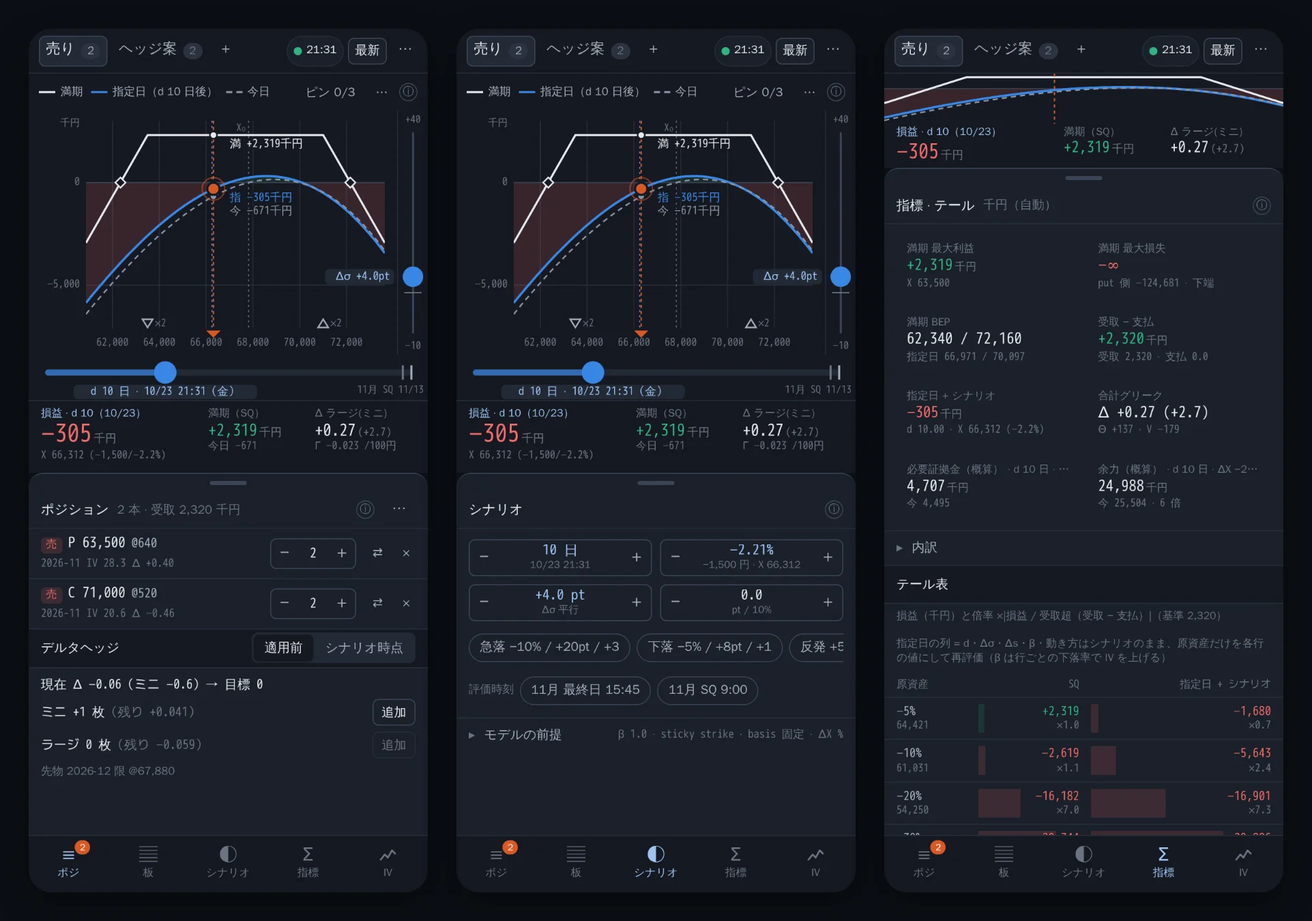
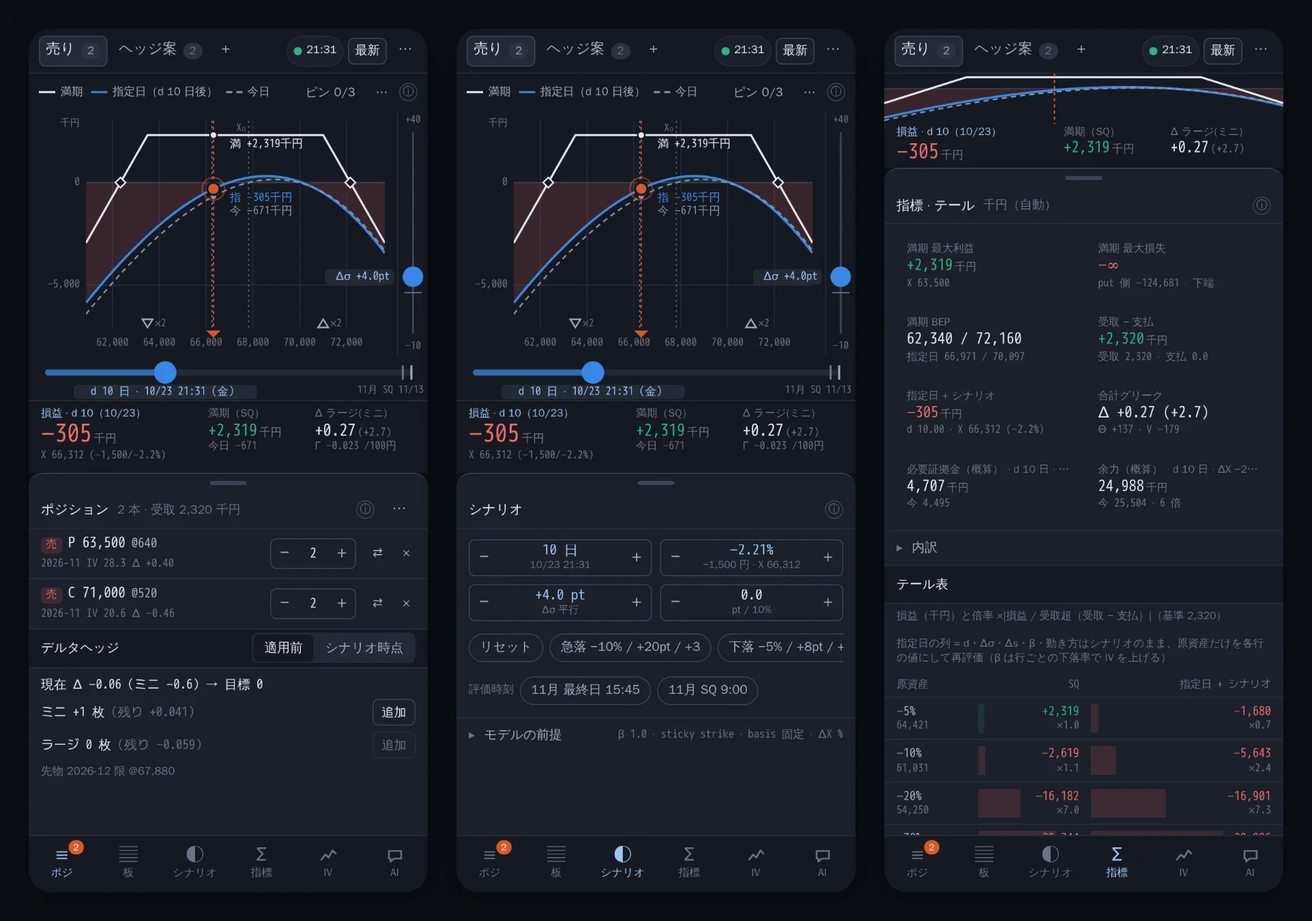
docs: README を刷新する（十字線・テクニカルの段と EMA・AI の提案とテクニカル・設定の画像と、検討の流れの順の機能ツアー） (#216)
- readmeShots に stage-cross・ai-propose・ai-tech・settings-tech を足し、面と先物推移と phone-light の場面を変えて全画像を撮り直す（合成の板と dev の偽の応答だけ）
- 機能ツアーを 損益グラフ → シナリオ → 指標 → 証拠金 → 板とスマイル → 推移とテクニカル → AI → パレット → スマホ の順に
- README から板の取得元の名前と、user-guide と食い違う古いメモの折りたたみを外す
- dev の偽のテクニカルの返答を日本語の足の名前と分布（中央値・上下 10%）に

diff --git a/README.md b/README.md
@@ -10,88 +10,122 @@
 </p>
 
 <p align="center">
-  <sub>画面はすべて合成の板（Black-76 から作った架空の値）で撮影。実在の相場の値ではありません。</sub>
+  <sub>画面はすべて合成の板（Black-76 から作った架空の値）と、手元の開発サーバーの架空の応答で撮影。実在の相場の値ではありません。</sub>
 </p>
 
 ---
 
-グラフのハンドルをつかんで日数・原資産・IV を動かすと、損益・グリーク・証拠金・テールが一緒に動きます。PC では 1 画面に収まり、スマホではドックとシートで切り替えます。
+板から足を選んでポジションを組み、満期・指定日・今日の損益を 1 枚のグラフで読みます。グラフのハンドルをつかんで日数・原資産・IV を動かすと、損益・グリーク・証拠金・テールが一緒に動きます。PC では 1 画面に収まり、スマホではドックとシートで切り替えます。
 
-- **損益グラフ** — 満期（解析解）・指定日 + シナリオ・今日の 3 本。長押しでつかんで読む、十字線で任意の原資産の損益と水準を読む、ピンで別の案と重ねる、日数 × 原資産の **面** にも切り替え
-- **シナリオ** — 経過日数・原資産 ΔX（−90〜+100%）・IV 平行移動 Δσ・スキュー Δs・β（下落で IV が上がる）。急落 / 下落 / 反発のプリセット、IV レールと時間レール
+- **損益グラフ** — 満期（解析解）・指定日 + シナリオ・今日の 3 本。十字線で任意の原資産の損益を読む、長押しでシナリオ点をつかむ、ピンで別の案と重ねる、日数 × 原資産の **面** にも切り替え
+- **シナリオ** — 経過日数・原資産 ΔX（−90〜+100%）・IV 平行移動 Δσ・スキュー Δs・β（下落で IV が上がる）。急落 / 下落 / 反発のプリセット
 - **指標 · テール** — 最大損益・BEP・合計グリーク（Δ はラージ / ミニ換算）、−5〜−40% のテール表
 - **証拠金の概算** — 必要証拠金・余力、損益グラフに **追証の線**、過去の 2 営業日の動きと重ねる **追証マップ**
-- **市場** — 板（bid で売り・ask で買い）、スマイル（bid / ask / mid の IV と補間・外挿）、ATM IV の推移（ローソク足・十字線）
-- **コマンドパレットと用語集** — `Ctrl + K` で何でも、先頭に `?` を付けて引くと用語の説明カード
-- **AI に相談** — [このポジションを診断] で弱点を数字つきで説明し、続けて質問できる。数字はこのシミュレーター自身の計算から取り、AI が使ったシナリオは [シナリオに適用] の 1 タップで損益グラフに入る
-- **どこでも** — PC の 3 列から、スマホのドックとシートまで。ダーク / ライト
-- **計算はすべてブラウザ** — サーバーは板の JSON を返すのと、AI への中継だけ
+- **板とスマイル** — 板の bid で売り・ask で買いの足が入る。スマイル（bid / ask / mid の IV と補間・外挿）の点からも
+- **IV 推移と先物推移** — ATM IV と日経225 先物のローソク足（1 分〜日足）。先物には EMA の 3 本と RSI・MACD・ストキャスティクスの段
+- **AI に相談** — [このポジションを診断]、続けての質問、ヘッジや組み方の **提案のカード**、先物の **テクニカルの読み**。数字はこのシミュレーター自身の計算から取る
+- **コマンドパレット・用語集・設定** — `Ctrl + K` で何でも、`?` で用語の説明カード。テクニカル指標の期間と線の太さも設定で
+- **計算はすべてブラウザ** — サーバーは板などの JSON を返すのと、AI への中継だけ
 
 ## 機能ツアー
 
-### 損益グラフ
+上から順に、建てる前の検討の流れ（損益を読む → 条件を動かす → リスクと証拠金を見る → 足を選ぶ → 相場の推移を読む → AI に聞く）で並べています。
+
+### 1. 損益グラフ
 
 満期（SQ。折れ点を頂点に持つ解析解）・指定日 + シナリオ・今日の 3 本を重ねます。シナリオ点の縦線と各線の交点に金額のラベル、満期の折れ点と BEP、損益 0 の帯。ホイール / ピンチで拡大、ドラッグでパン。
 
 <table>
   <tr>
+    <td width="50%"><img src="docs/images/stage-cross.webp" alt="ライト。損益グラフの十字線。縦線の原資産 63,790 と横線の損益 −3,552 千円の札、右上に満期・指定日・今日の損益の読み取り"></td>
     <td width="50%"><img src="docs/images/stage-scrub.webp" alt="ダーク。長押しでシナリオ点をつかんで左に動かしている途中の損益グラフ"></td>
-    <td width="50%"><img src="docs/images/stage-pins.webp" alt="ライト。今の線のピンとヘッジ案のピンを重ねた損益グラフ"></td>
   </tr>
   <tr>
-    <td><b>長押しでつかむ</b> — シナリオ点を左右に動かすと、下の読み取り（損益・満期・Δ・Θ・V）が追従</td>
+    <td><b>十字線</b> — PC はマウスを載せる、スマホはタップで置く。縦線の原資産での満期・指定日・今日の損益と、横線の高さの損益を札で読む（シナリオは変わらない）</td>
+    <td><b>長押しでつかむ</b> — シナリオ点を左右に動かすと、交点の金額と下の読み取り（損益・満期・Δ・Θ・V）が付いてくる</td>
+  </tr>
+  <tr>
+    <td><img src="docs/images/stage-pins.webp" alt="ライト。今の線のピンとヘッジ案のピンを重ねた損益グラフ"></td>
+    <td><img src="docs/images/stage-surface.webp" alt="ダーク。横が原資産・縦が経過日数の損益の面（緑が利益・赤が損失）に十字線と、その点の損益と日数の札"></td>
+  </tr>
+  <tr>
     <td><b>ピン</b> — 今の線を残す・別のタブ（ヘッジ案）を重ねる。最大 3 本</td>
-  </tr>
-  <tr>
-    <td><img src="docs/images/stage-surface.webp" alt="ダーク。横が原資産・縦が経過日数の損益の面（緑が利益・赤が損失）"></td>
-    <td><img src="docs/images/margin-line.webp" alt="ライト。全域まで縮小した損益グラフに、赤の破線「追証」が左右に 2 本"></td>
-  </tr>
-  <tr>
-    <td><b>面モード</b> — 横 = 原資産、縦 = 経過日数。点をドラッグすると ΔX と d が同時に動く</td>
-    <td><b>追証の線</b> — 資金を設定すると、余力（概算）が 0 になる原資産に赤の破線</td>
+    <td><b>面モード</b> — 横 = 原資産、縦 = 経過日数。点をドラッグすると ΔX と d が同時に動く。PC はマウスを載せた点の損益と日数を十字線で読む</td>
   </tr>
 </table>
 
-### シナリオ
+### 2. シナリオ
 
-日数・ΔX・Δσ・Δs をステッパー（± / Shift / スクラブ / ホイール / キー）で。舞台の右の **IV レール** と下の **時間レール** でも同じ値が動きます。急落プリセットは 3 つを同時に入れ、β・sticky strike / moneyness・先物の basis（固定 / 減衰）は「モデルの前提」に。
+日数・ΔX・Δσ・Δs をステッパー（± / Shift / スクラブ / ホイール / キー）で。舞台の右の **IV レール** と下の **時間レール** でも同じ値が動きます。急落プリセットは 3 つを同時に入れ、[リセット] はプリセットの行の先頭に。β・sticky strike / moneyness・先物の basis（固定 / 減衰）は「モデルの前提」に。
 
-<p align="center"><img src="docs/images/scenario.webp" alt="ダーク。急落 −10% / +20pt / +3 のプリセットを入れたシナリオのステッパーとチップ" width="80%"></p>
+<p align="center"><img src="docs/images/scenario.webp" alt="ダーク。急落 −10% / +20pt / +3 のプリセットを入れたシナリオのステッパーとチップ。行の先頭に [リセット]" width="80%"></p>
 
-### 指標 · テール と 証拠金の概算
+### 3. 指標 · テール
+
+<p align="center"><img src="docs/images/metrics.webp" alt="ライト。指標のタイル 8 枚、テール表（損益のバーと倍率）、テールの証拠金の表" width="60%"></p>
+
+最大利益 / 損失（∞ のときは反対側の有限値）・BEP・受取 − 支払・合計グリーク・必要証拠金・余力のタイルと、−5〜−40% × {SQ, 指定日 + シナリオ} のテール表。タイルの内訳から用語の説明も開けます。
+
+### 4. 証拠金と追証
 
 <table>
   <tr>
-    <td width="50%"><img src="docs/images/metrics.webp" alt="ライト。指標のタイル 8 枚、テール表（損益のバーと倍率）、テールの証拠金の表"></td>
+    <td width="50%"><img src="docs/images/margin-line.webp" alt="ライト。全域まで縮小した損益グラフに、赤の破線「追証」が左右に 2 本"></td>
     <td width="50%"><img src="docs/images/holdmap.webp" alt="ダーク。追証マップ。横が原資産の変化・縦が IV の倍率で、余力ありの緑の領域と過去の 2 営業日の動きの点群"></td>
   </tr>
   <tr>
-    <td><b>タイル・テール表・証拠金の表</b> — 最大利益 / 損失（∞ のときは反対側の有限値）・BEP・受取 − 支払・合計グリーク・必要証拠金・余力。テールは −5〜−40% × {SQ, 指定日 + シナリオ}</td>
+    <td><b>追証の線</b> — 資金を設定すると、余力（概算）が 0 になる原資産に赤の破線</td>
     <td><b>追証マップ</b> — 原資産と IV が同時に動いたときの余力（原資産の変化 × IV の倍率）の正負を塗り、過去の 2 営業日の動き（日次の原資産と ATM IV）を点で重ねる。「過去 N 回のうち何回が追証の側か」</td>
   </tr>
 </table>
 
-### 市場: 板・スマイル・IV 推移・先物推移
+証拠金は概算です（掛け目・値動き幅・IV の幅は設定で寄せられます）。
 
-板の bid を押すと売り、ask を押すと買いの足が入ります。スマイルは OTM 側の bid / ask / mid の IV と、節点・補間・外挿の線（不安定な点は ×）。点を選ぶと、板と同じ規則で足を入れる操作行が出ます。IV 推移は ATM IV（30 日固定）のローソク足 / 線で、十字線・左へのパンで過去を追加読み込み、シナリオの水準の線。先物推移は日経225 先物（ラージ・期近）の値動きを同じ操作で見られます。期近をつないだ足（値は調整しない）で、限月が替わった所に縦の点線と限月の札が出ます。IV 推移と先物を切り替えても、足と見ていた期間はそのままです。どちらのチャートにも 4 時間足があり、先物推移では価格の下に RSI・MACD・ストキャスティクスの段を出せます。AI に先物の週足・日足・4 時間足の指標を聞くと、同じ計算の値と、過去に似た状態の後の値動きの分布を材料として返します。
+### 5. 板とスマイルで足を選ぶ
+
+板の bid を押すと売り、ask を押すと買いの足が入ります。ATM・OTM 度・|Δ| へのジャンプ、限月と put / call の切替。スマイルは OTM 側の bid / ask / mid の IV と、節点・補間・外挿の線（不安定な点は ×）。点を選ぶと、板と同じ規則で足を入れる操作行が出ます。
+
+<p align="center"><img src="docs/images/smile.webp" alt="ダーク。11 月限のスマイル。67,750 put を選んで売り 1,920 / 買い 1,935 のボタン" width="45%"></p>
+
+### 6. IV 推移と先物推移（テクニカル）
+
+IV 推移は ATM IV（30 日固定）、先物推移は日経225 先物（ラージ・期近）のローソク足 / 線です（1 分・5 分・15 分・1 時間・4 時間・日足）。十字線、左へのパンで過去を読み足し、IV 推移にはシナリオの水準の線。先物は期近をつないだ足（値は調整しない）で、限月が替わった所に縦の点線と限月の札が出ます。IV 推移と先物を切り替えても、足と見ていた期間はそのままです。
+
+先物推移には **EMA の 3 本**（既定 5・25・75）を重ね、[RSI] [MACD] [SO] で価格の下に **テクニカル指標の段** を出せます。段の境目のドラッグで高さを変え、段のダブルクリック / ダブルタップでその段だけを大きく。十字線の縦線は価格と全部の段で同じ足にそろいます。
+
+<p align="center"><img src="docs/images/fut-history.webp" alt="ダーク。日経225 先物の日足のローソク足に EMA の 3 本、下に RSI・MACD・SO の段。限月が替わった所に縦の点線と 9月限・12月限 の札、十字線と各段の値" width="80%"></p>
 
 <table>
   <tr>
-    <td width="50%"><img src="docs/images/smile.webp" alt="ダーク。11 月限のスマイル。67,750 put を選んで売り 1,920 / 買い 1,935 のボタン"></td>
     <td width="50%"><img src="docs/images/iv-history.webp" alt="ダーク。ATM IV の 1 時間足のローソク足に十字線と札、上にシナリオの水準の破線"></td>
+    <td width="50%"><img src="docs/images/settings-tech.webp" alt="ダーク。設定のテクニカル指標。RSI・MACD・SO・EMA の期間の欄と、EMA の線・段の線の太さの選択"></td>
   </tr>
   <tr>
-    <td width="50%"><img src="docs/images/fut-history.webp" alt="ダーク。日経225 先物の日足のローソク足に十字線と札、限月が替わった所に縦の点線と 12月限 の札"></td>
-    <td width="50%"></td>
+    <td><b>IV 推移</b> — ATM IV のローソク足と、シナリオの IV の水準の線</td>
+    <td><b>テクニカル指標の設定</b> — RSI・MACD・SO・EMA の期間と、EMA の線・段の線の太さ（1〜3 px）。AI のテクニカルの読みも同じ期間・同じ計算</td>
   </tr>
 </table>
 
-### AI に相談
+指標は売買の合図ではありません。
+
+### 7. AI に相談
 
 [このポジションを診断] で、今のポジションの弱点（どこで損が膨らむか・何に弱いか）を AI（Anthropic の Claude）が数字つきで説明します。数字はこのシミュレーターの計算（指標・テール表・証拠金・シナリオの評価と同じ計算）から取り、AI には計算させません。続けて「−6% で 3 日後、IV +5pt なら？」のように質問もできます。
 
 <p align="center"><img src="docs/images/ai.webp" alt="ダーク。PC の右の列に AI のパネル。診断の返答（弱点 3 つと確かめるとよいこと）、続けた質問へのシナリオの評価のカードと [シナリオに適用]" width="100%"></p>
-<p align="center"><sub>返答は合成の板で見せる例です（dev サーバーの架空の応答。数字は合成の板からの計算の値）。</sub></p>
+
+<table>
+  <tr>
+    <td width="50%"><img src="docs/images/ai-propose.webp" alt="ライト。AI のポジションの提案のカード。＋ put の買いの足と、満期の最大損失・必要証拠金・Δ の今 → 後、[今のタブに適用]"></td>
+    <td width="50%"><img src="docs/images/ai-tech.webp" alt="ダーク。「日足の RSI は？」への返答。テクニカル（先物）のカードと、過去に同じ状態だった後の値動きの分布の文"></td>
+  </tr>
+  <tr>
+    <td><b>ポジションの提案</b> — 「最大損失を抑えるヘッジの足を足して」のように頼むと、足の差分と入れた後の満期の最大損失・必要証拠金・Δ を今 → 後で見せるカード。行使価格は今の板からシミュレーターが選ぶ。提案の先に応じて [今のタブに適用] か [新しいタブに入れる]（ピンで並べて比べられる）。トーストの [元に戻す] で戻せる</td>
+    <td><b>テクニカルの読み</b> — 「日足の RSI は？」のように聞くと、先物の週足・日足・4 時間足の RSI・MACD・SO・EMA（先物推移と同じ計算）と、過去に同じ状態だった後の値動きの分布（件数・中央値・上下 10%）を材料として返す。上がる・下がるは断定しない</td>
+  </tr>
+</table>
+
+<p align="center"><sub>AI の返答の画像は、手元の開発サーバーの架空の応答で撮った例です（実際の AI は呼んでいません。数字は合成の板からの計算の値）。</sub></p>
 
 - **開き方** — スマホ・タブレットはドックの [AI]、PC はトップバーの [AI] かキー `6`（右の列のポジション・指標と入れ替わる）。コマンドパレットの「AI に相談」「このポジションを診断」からも
 - **数字の照合** — 返答の中の数字が計算の値と照合できないときは点線の下線が付く（その数字は計算の値ではない）
@@ -101,7 +135,7 @@
 
 管理者が AI を有効にしたときだけ使えます。返答は計算結果をもとにした検討材料で、投資の助言ではありません（売買の判断はご自身で）。
 
-### コマンドパレットと用語集
+### 8. コマンドパレット・用語集
 
 `Ctrl + K` でパネルの移動・プリセット・評価時刻・ピン・足の追加・テーマ・設定まで。`?` から始めると用語を引けて、ⓘ や指標の内訳の用語からも同じ説明カードが開きます。
 
@@ -112,19 +146,19 @@
   </tr>
 </table>
 
-### スマホ: ドックとシート
+### 9. スマホ: ドックとシート
 
 舞台（損益グラフ）は常に上に。下のドック（ポジ / 板 / シナリオ / 指標 / IV / AI）でパネルを選び、シートを peek / full / 隠すの 3 段階で。幅 360px でも横スクロールしません。
 
 <p align="center"><img src="docs/images/phone-dark.webp" alt="スマホのダーク 3 台。ポジション、シナリオ、指標 · テールのシート"></p>
-<p align="center"><img src="docs/images/phone-light.webp" alt="スマホのライト 3 台。板、スマイル、IV 推移のシート"></p>
+<p align="center"><img src="docs/images/phone-light.webp" alt="スマホのライト 3 台。板、スマイル、先物推移（EMA の 3 本と RSI・MACD の段）のシート"></p>
 
 使い方の全部は [利用者マニュアル `docs/user-guide.md`](docs/user-guide.md)、画面の設計は [`docs/ui-redesign.md`](docs/ui-redesign.md)。
 
 ## しくみとデータ
 
 ```
-optionchan（毎分取り込んだ板 → BigQuery）
+毎分取り込んだ板（BigQuery）
         │  読むだけ（書き込まない）
         ▼
 api/（Python 3.13・Flask）  /api/chain・/api/calendar・/api/atm_iv・/api/atm_daily・/api/future_bars
@@ -136,9 +170,9 @@ api/（Python 3.13・Flask）  /api/chain・/api/calendar・/api/atm_iv・/api/a
 
 計算はすべてブラウザで行います。サーバーは板などの JSON を返すのと、AI への中継だけです。
 
-- **データ元**: optionchan（[`docs/design.md`](docs/design.md) 7 章）形式の BigQuery の最新スナップショット、または JSON ファイル（`DATA_SOURCE=file`・画面のファイル選択）。手元では合成の板（`fixtures/synthetic/`）だけで GCP なしに動きます
+- **データ元**: 毎分取り込んだ板を蓄積した BigQuery の最新スナップショット（形と契約は [`docs/design.md`](docs/design.md) 4.1・7 章）、または JSON ファイル（`DATA_SOURCE=file`・画面のファイル選択）。手元では合成の板（`fixtures/synthetic/`）だけで GCP なしに動きます
 - **ほかの供給元**: 自分で契約した API から書き出した気配の一覧を読む口（`DATA_SOURCE=quotes`）。形・足し方・候補の比較は [`docs/data-sources.md`](docs/data-sources.md)
-- **汎用の作り**: 誰でも clone して自分の環境（自分の GCP プロジェクト・自分の optionchan）で使える作りです。プロジェクト ID・URL・アカウントなどの個人の値はコードに書かず、変数で受け取ります（[`CLAUDE.md`](CLAUDE.md) の「リポジトリに置くもの / 置かないもの」）
+- **汎用の作り**: 誰でも clone して自分の環境（自分の GCP プロジェクト・自分の板の BigQuery）で使える作りです。プロジェクト ID・URL・アカウントなどの個人の値はコードに書かず、変数で受け取ります（[`CLAUDE.md`](CLAUDE.md) の「リポジトリに置くもの / 置かないもの」）
 - **AI の中継**: ブラウザの会話を `api/` の `/api/ai/messages`（SSE）が許可リストで検査して Claude へ渡します。AI が求めた計算（シナリオの評価など）はブラウザで行い、中継は計算しません。1 日の費用の上限は Firestore で数えます（API キー・WIF のとき）。資格情報は `AI_CREDENTIAL` で 1 つ選びます（Claude のサブスクリプションの OAuth トークンか API キー（どちらも Secret Manager に入れる）、または Anthropic の WIF（鍵なし））。OAuth トークンのときは、中継が Claude Agent SDK（Claude Code の CLI を中で動かす）を通して送り、費用は数えません。未設定なら AI は無効で、ほかの機能はそのまま使えます。
   - **サブスクリプションの OAuth トークンを使う場合は、自分で規約を確かめてください**。Anthropic の文書は、Agent SDK を使って製品・サービスを作る開発者には API キーでの認証を求め、Free / Pro / Max プランの資格情報で利用者の代わりに要求を送ることを認めていません（原文と出典は [`docs/adr-0005-ai-oauth-via-agent-sdk.md`](docs/adr-0005-ai-oauth-via-agent-sdk.md) の「規約」）。使うかどうかはデプロイする人の自己責任です。迷うなら API キーか WIF を使ってください
   - 手順は [`infra/README.md`](infra/README.md) の「AI の資格情報」「AI の費用の計上」と [`api/README.md`](api/README.md)
@@ -163,7 +197,7 @@ npm ci
 npm run dev        # http://localhost:5173/ — 合成の板で開く
 ```
 
-自分の optionchan の BigQuery を読むときは、`api/` を `GCP_PROJECT=<PROJECT_ID>` で起動して `[最新]`（下の「開発」と [`api/README.md`](api/README.md)）。
+自分の板の BigQuery を読むときは、`api/` を `GCP_PROJECT=<PROJECT_ID>` で起動して `[最新]`（下の「開発」と [`api/README.md`](api/README.md)）。
 
 ## 開発
 
@@ -228,14 +262,14 @@ GCP_PROJECT_ID=$P GCP_PROJECT_NUMBER=$(gcloud projects describe "$P" --format='v
 ## 板のデータ
 
 - `fixtures/synthetic/*.json`: 開発・テストの既定の板。Black-76 から作った **架空の値**（生成器 `scripts/synthBoard.ts`）。形は `docs/design.md` 7.1
-- `fixtures/local/`: 実データ（optionchan の板）の dump を手元で試す置き場。**gitignore 済みで、コミットしない**（実データを公開リポジトリに置かない）。`/api/chain` と同じ形の JSON を置くと `npm test` が検証・正規化を試し（`tests/data/local.test.ts`。件数だけ出す）。`npm run dev` の画面のファイル選択でも読める。Issue / PR には件数・割合などの要約だけを書く
+- `fixtures/local/`: 実データ（毎分取り込んだ板）の dump を手元で試す置き場。**gitignore 済みで、コミットしない**（実データを公開リポジトリに置かない）。`/api/chain` と同じ形の JSON を置くと `npm test` が検証・正規化を試し（`tests/data/local.test.ts`。件数だけ出す）。`npm run dev` の画面のファイル選択でも読める。Issue / PR には件数・割合などの要約だけを書く
 
 ## 取引カレンダー
 
-板の無い限月の SQ 日・取引最終日は、休業日 = 土日 ∪ 取引カレンダーの版（optionchan の BigQuery のビュー `trading_calendar_latest`）の全行の日付で求める（`docs/design.md` 5.2・7.5）。
+板の無い限月の SQ 日・取引最終日は、休業日 = 土日 ∪ 取引カレンダーの版（BigQuery のビュー `trading_calendar_latest`）の全行の日付で求める（`docs/design.md` 5.2・7.5）。
 
-- **本番**: 画面は開いたときと [最新] で `/api/calendar`（API が BigQuery から読んだ最新の版）を読む。ヘッダの前提は「取引カレンダー: optionchan の版（<版の日付>）・確定 <covered_until> まで」
-- **取れないとき**: 同梱の版（`data/calendar/calendar.json`。`/api/calendar` と同じ形）を使う。dev の合成の板・ファイル選択・`DATA_SOURCE=file` の Flask（`/api/calendar` は 503）でも同梱の版で動く（BigQuery 無しで使える）。前提は「取引カレンダー: 同梱の版（<版の日付>）・…」
+- **本番**: 画面は開いたときと [最新] で `/api/calendar`（API が BigQuery から読んだ最新の版）を読む。設定の前提に API の版の日付と確定の最終日（`covered_until`）が出る
+- **取れないとき**: 同梱の版（`data/calendar/calendar.json`。`/api/calendar` と同じ形）を使う。dev の合成の板・ファイル選択・`DATA_SOURCE=file` の Flask（`/api/calendar` は 503）でも同梱の版で動く（BigQuery 無しで使える）。前提は「取引カレンダー: 同梱の版（<版の日付>）・確定 … まで」
 - **同梱の版の作り直し**（自動更新はしない。期限切れが近いとき・新しい年の休業日が公表されたとき）: BigQuery を読める手元（ADC）で API を起動し、`/api/calendar` だけを呼んで書く（読むのはビュー 1 本・十数 KB。板は読まない）。`npm test` で検証・全月の SQ 日の検査・合成の板の日付との一致を確かめてから PR にする
 
   ```sh
@@ -244,38 +278,9 @@ GCP_PROJECT_ID=$P GCP_PROJECT_NUMBER=$(gcloud projects describe "$P" --format='v
   npm test
   ```
 
-## 画面の詳細メモ
-
-<details>
-<summary>縦切り 1c・#11・#6・#19・#34 の時点のメモ（現行の画面の正は <code>docs/ui-redesign.md</code>、使い方は <code>docs/user-guide.md</code>）</summary>
-
-- 読み込み: 本番は開いたら 1 回だけ API（`/api/chain`）から板を読み、[最新] で読み直す（自動ポーリングはしない。読み込み中は押せない。足・限月の選択は保つ）。失敗したら種別ごとの文言（503・ログイン切れ・通信エラー・壊れた JSON。応答の本文は出さない）と「前の板のまま（取得 HH:MM）」。localStorage の「古い板」は #23
-- ヘッダ: 板の時刻・約 N 分遅れ・最新 / 板寄せ前 / 引け後 / 時間外、取得時刻（ブラウザで読んだ時刻）とデータ元、`latest` 以外は理由の 1 行、日経平均・先物、限月ごとの取引最終日・SQ 日・F（合成先物 / 先物で代用）、ATM の基準 A（ラージ先物）/ B（合成先物。既定）の切替と両方の基準価格。基準価格がスナップショットより 30 分以上古ければ「古い」
-- 板: 限月タブ、bid を押すと売り・ask を押すと買いの足が入る。「ATM へ戻る」、OTM 度・|Δ| へのジャンプ、ask ≤ 50 円の絞り込み、印（IV 不安定・補間・外挿・板の IV 欠損・気配なし）。板の枠が狭い（560px 未満。スマホや 2 ペインの中間幅）ときは call / put 切替で K・bid / ask・IV だけ
-- 損益グラフ（右ペインの先頭。スマホは板の下）: 横軸 = 基準原資産 X（円）、縦軸 = 損益。線は満期（SQ。折れ点 K − basis_i を頂点に持つ解析解）・指定日 + シナリオ・今日（横軸 1 画素 1 点で再サンプリング）。今日の線はシナリオ IV を掛けない基準の線（d = ΔX = Δσ = Δs = 0。β と sticky の設定は横軸の各点に効く）で、指定日の線は d > 0 または Δσ・Δs ≠ 0 のときだけ描く。印は損益 0 の線、X₀ の縦線、シナリオ点 X₀ + ΔX の縦線、満期の折れ点と BEP。シナリオ点の縦線（ΔX = 0 なら X₀ の縦線）と各線の交点に点と金額のラベル「満 / 指 / 今 + 金額」（金額は指標の単位。範囲外は端に ▲ / ▼）。グラフのすぐ下に読み取りの帯（シナリオ点の X・ΔX・d・損益（指定日・満期・今日）・合計グリーク）があり、シナリオ欄までスクロールしても画面の上端に残る
-  - 縦軸: 自動（表示中の範囲の線と 0）/ 手動（下端・上端を円で）/ ±N 倍（受取 − 支払の N 倍。既定 5。プレミアム 0 なら自動）。目盛りは 10 万円以上で千円
-  - 横軸の初期範囲は X₀・全足の折れ点・満期の BEP + 余白、縮小の上限は板の全限月の行使価格の位置と初期範囲の和（下端は全足の原資産が 0 以上の点）
-- シナリオ（損益グラフの下）: スライダー 4 本 + 数値欄（経過日数 d 0〜最遠の足の SQ・1 日 / 原資産 ΔX −90〜+100%（数値欄は −99〜+900%）・0.5%（円表示は 100 円）/ IV 平行移動 Δσ −10〜+40pt・0.5 / スキュー Δs −5〜+5・0.5）。スライダーにフォーカスして ← → ↑ ↓ で 1 刻み、Shift + 矢印・PageUp / PageDown で 10 刻み、Home / End で端、R でそのスライダーの既定値、+ / − で損益グラフの拡大・縮小。数値欄は範囲外・数でない入力を受け付けない（`−` と先頭の `+` は可）。急落プリセット 3 つ（3 スライダーを同時に設定）、β（既定 1.0pt / 1%、0 で無効）、sticky strike / moneyness、[シナリオをリセット]（β・動き方は保つ）。[basis 固定 / basis 減衰]（先物の足を OP の SQ・指定日に評価するときの basis。減衰は先物の SQ で 0 へ線形。#25）。「SQ 日 9:00」「取引最終日 15:45」は対象の限月（足の限月。既定は SQ が最も近い限月）の時刻に評価時刻を置く d を入れる
-- 指標（シナリオの下）: 満期の最大利益・最大損失（解析解。call 側 ∞ のときは put 側の有限値を併記）と BEP、指定日 + シナリオのシナリオ点の理論損益と BEP、合計グリーク（Δ ラージ / ミニ・Γ / 100 円・Θ 円 / 日・V 円 / pt）、足別（`<details>`）、受取 / 支払・手数料・スプレッドコスト・建値ずれ。支払超なら掛け金（支払 − 受取 + 手数料）と利益が掛け金の 1・5・10 倍になる原資産。金額の単位は受取 + 支払が 10 万円未満なら円、以上なら千円（[自動 / 円 / 千円]）。手数料（1 枚あたり円、既定 0）を入れられる
-- テール表: 原資産 −5〜−40% の行 × {SQ, 指定日 + シナリオ IV（β 込み）} の損益と倍率 ×|損益 / 基準|（基準は受取超なら受取、支払超なら掛け金）
-- 拡大・パン（損益グラフとスマイルで共通。M10）: ホイール = カーソル位置で拡大・縮小（横スクロールはパン）、ドラッグ / 1 本指 = パン、2 本指 = 拡大・縮小、ダブルクリック / ダブルタップ / [⟲] = リセット、[−][＋]。グラフをクリック・Tab でフォーカスしてキー + / − / ← / → / R。損益グラフだけ、**長押し（約 0.5 秒）して左右にドラッグ**でシナリオ点（ΔX。10 円刻み）を動かす。表示中のシナリオ点の縦線はそのままドラッグできる。キー , / . で ΔX ∓100 円、< / > で ∓1,000 円。損益グラフの十字線（線モード）は PC はマウスを載せる、タッチはタップで置き、交点をドラッグで動かし、読み取りの × のタップで消す。グラフの中ではページがスクロールしないので、スマホはグラフの外（ツール行・凡例）でスクロールする
-- スマイル: OTM 側の bid / ask / mid の IV と σ_smile の線（節点区間は実線、補間・外挿は点線、不安定は ×）、ATM の縦線。横軸は行使価格 / moneyness / デルタ。点（× を含む）をタップ / クリックすると最寄りの行使価格（12px 以内）を選び、下の操作行「K 64,000 put: [売り（bid）] [買い（ask）]」で板と同じ規則の足が入る（ドラッグでは選ばない。限月の切替・板の読み直しで消える）
-- ポジション: 足ごとの商品・限月・売買・枚数・建値・IV・Δ（ラージ / ミニ）・Γ・Θ・V・建値ずれ・SQ 日・印。枚数・建値・IV・売買を編集できる。先物の足（既定ミニ）と板の無い限月の OP の足（手入力）を追加できる。保存はまだ無い（再読み込みで消える）
-- デルタヘッジ（ポジションの下。#19）: 目標 Δ（ラージ換算、既定 0）に要るミニ・ラージ先物の枚数（符号つき）と追加後の残りを出し、[追加] で先物の足（既定はミニ・板の先物の限月・建値は板の先物価格）が入る。評価点はシナリオ適用前（ポジション一覧の Δ）/ シナリオ時点（指標のシナリオ点）。限月は板の OP の限月も選べる（建値の初期値はその月の合成先物）。ミニが 0 枚ならマイクロ換算を併記。枚数は足・シナリオ・目標の変更ごとに出し直す（再ヘッジ）
-- 板の無い限月の足の SQ 日は取引カレンダー（下）で求める。その限月の第 2 金曜が確定の最終日より後なら「休業日未確定」。ヘッダの前提にカレンダーの版（optionchan の版 / 同梱の版）の日付と確定の最終日、評価時刻がカレンダーの `covered_until` を過ぎたら「カレンダー期限切れ」
-
-</details>
-
-<details>
-<summary>実装の経緯</summary>
-
-状態: 設計済み。縦切り 1（手元で損益が見える）を実装済み（価格モデル `model/`、データ `data/`、合成の固定の板、画面のヘッダ・板・スマイル・ポジション一覧・損益グラフ（拡大・パン）・シナリオのスライダー・指標・テール表）。縦切り 3 のデルタヘッジ（#19）・先物の basis 固定 / 減衰の切替（#25）を実装済み。縦切り 2 の API（`api/`。板 `/api/chain` とカレンダー `/api/calendar`。#33）を実装済み。インフラは `infra/bootstrap`（WIF・SA・state・Artifact Registry・IAP の閲覧許可。#35）と `infra/prod`（Cloud Run `simulator`（IAP）・イメージ（`Dockerfile`）・PR の plan と承認つきの deploy。#36）を実装済み。画面の既定を API にすること（#34）、閲覧者の追加と本番の受け入れ確認・個人の値の検査（CI）・クエリ量の監視の手順（#40。AC1 の読み込み時間は #95）を済ませた。AI に相談は、資格情報の入れ物（#133）・中継と 1 日の上限（#134）・チャットと [このポジションを診断]（#135）を実装済み。
-
-</details>
-
 ## スクリーンショットの撮り直し
 
-この README の画像（`docs/images/*.webp`）は `scripts/readmeShots.mjs` で撮っています。Vite の dev サーバーを中で起こし、**合成の板**（`fixtures/synthetic/latest.json`）と dev サーバーの合成の応答（IV 推移・先物推移・日次の値・AI の架空の返答。`scripts/devFixtures.mjs`）だけを使います。本番・API・BigQuery・Anthropic には触れません。足・シナリオ・資金（架空の値）は localStorage に入れて開きます。
+この README の画像（`docs/images/*.webp`）は `scripts/readmeShots.mjs` で撮っています。Vite の dev サーバーを中で起こし、**合成の板**（`fixtures/synthetic/latest.json`）と dev サーバーの合成の応答（IV 推移・先物推移・日次の値・AI の架空の返答（診断・シナリオの評価・提案・テクニカル）。`scripts/devFixtures.mjs`）だけを使います。本番・API・BigQuery・Anthropic には触れません。足・シナリオ・資金（架空の値）は localStorage に入れて開きます。
 
 ```sh
 npx playwright install chromium        # 初回だけ
